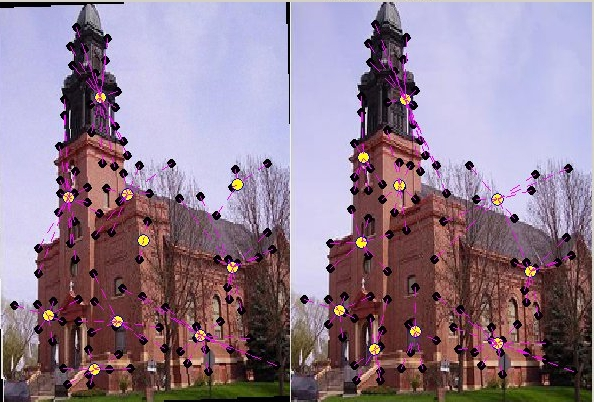
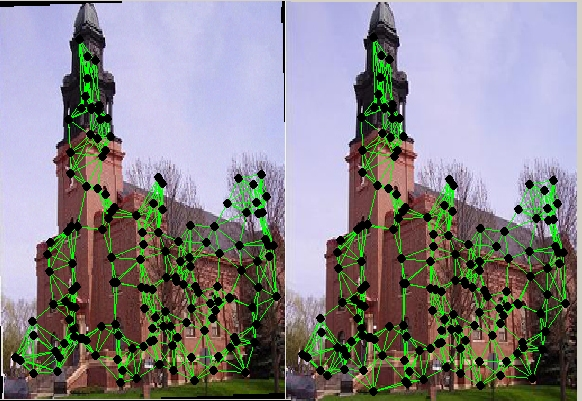
ver4.2  + results of calculation from 18.08  + updated README

diff --git a/Master/IterativeApproach/ver4.2/2levelGM/setParameters.m b/Master/IterativeApproach/ver4.2/2levelGM/setParameters.m
@@ -24,7 +24,8 @@ igparam.DelaunayTriang = 1; 	% Delaunay Triangulation
 %% Parameters for 2 Level Graph Matching algorithm
 
 % anchor graphs
-agparam.nA = 10;        % number of anchors
+agparam.nA = 60;        % number of anchors
+agparam.appSizeOfSubgraph = 30;  % approximate number of nodes in one subgraph
 agparam.coarsAlg    = {'LEM_coarsen_2', 'HEM_coarsen_2'};
 agparam.coarsAlgInd = logical([ 0, 1 ]);
 
